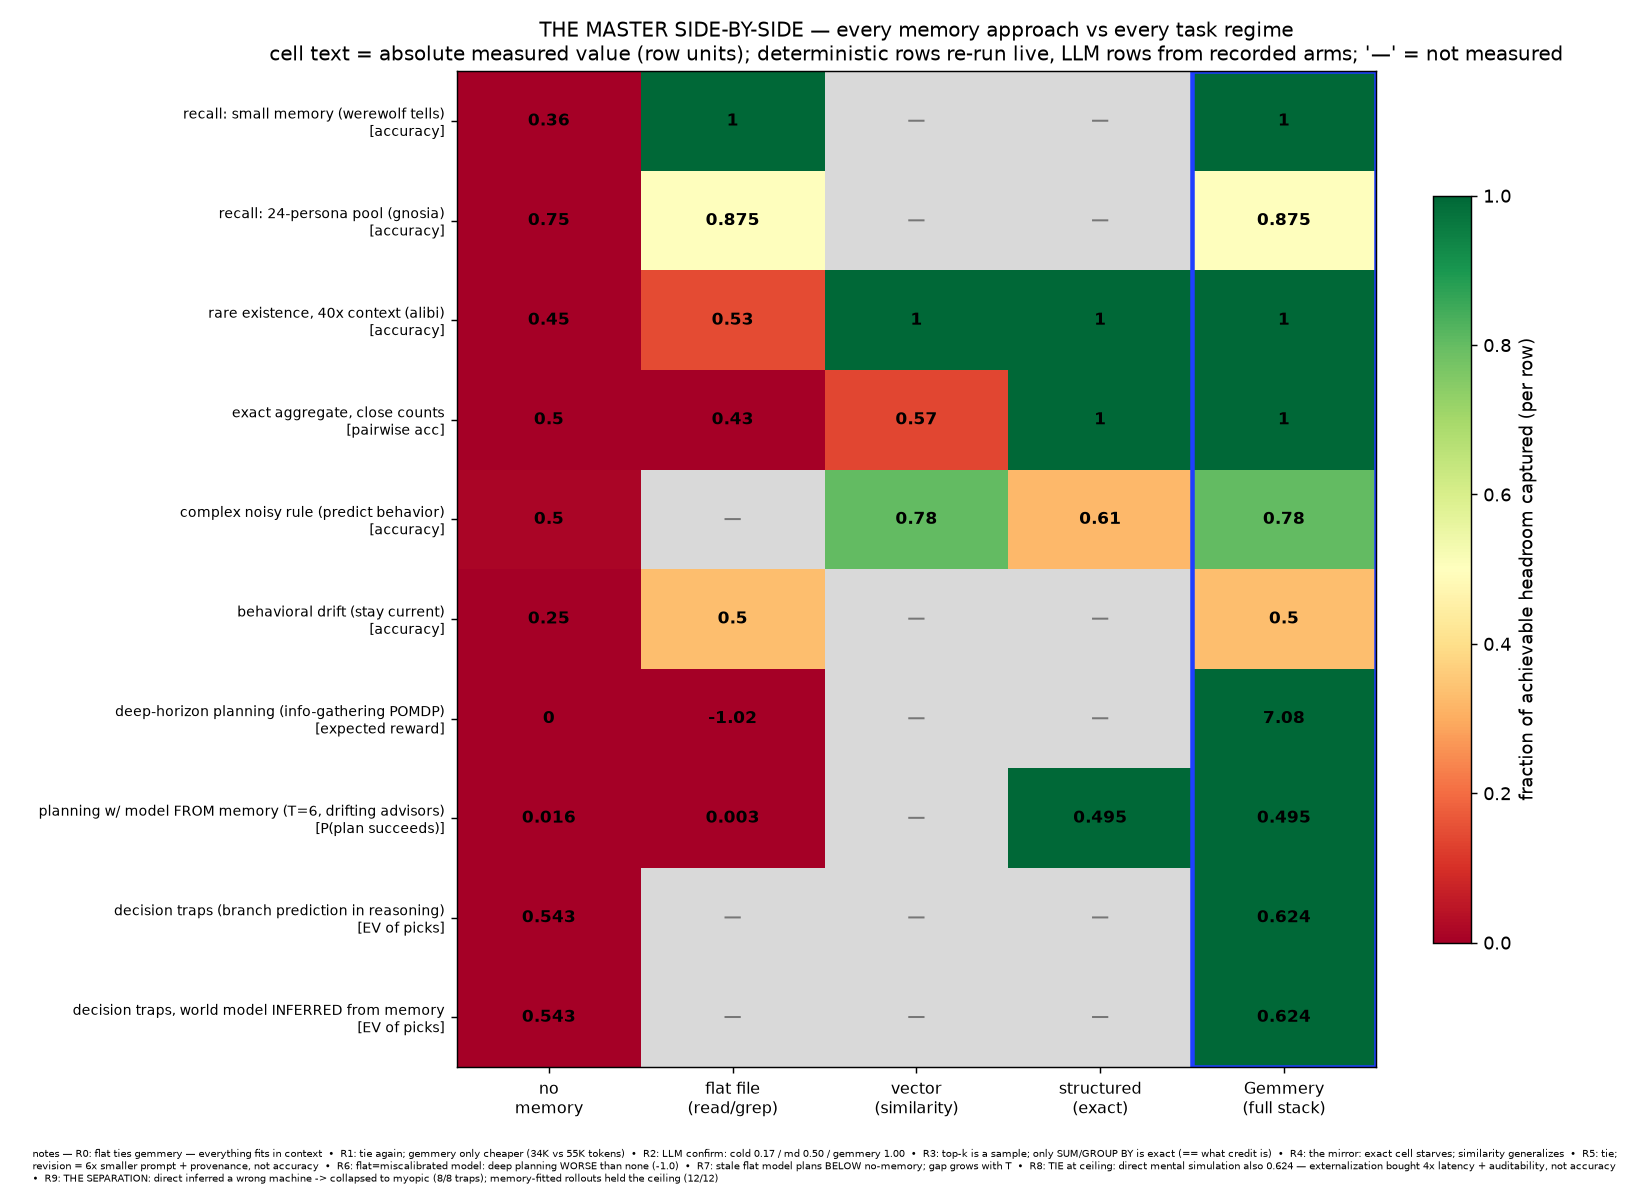
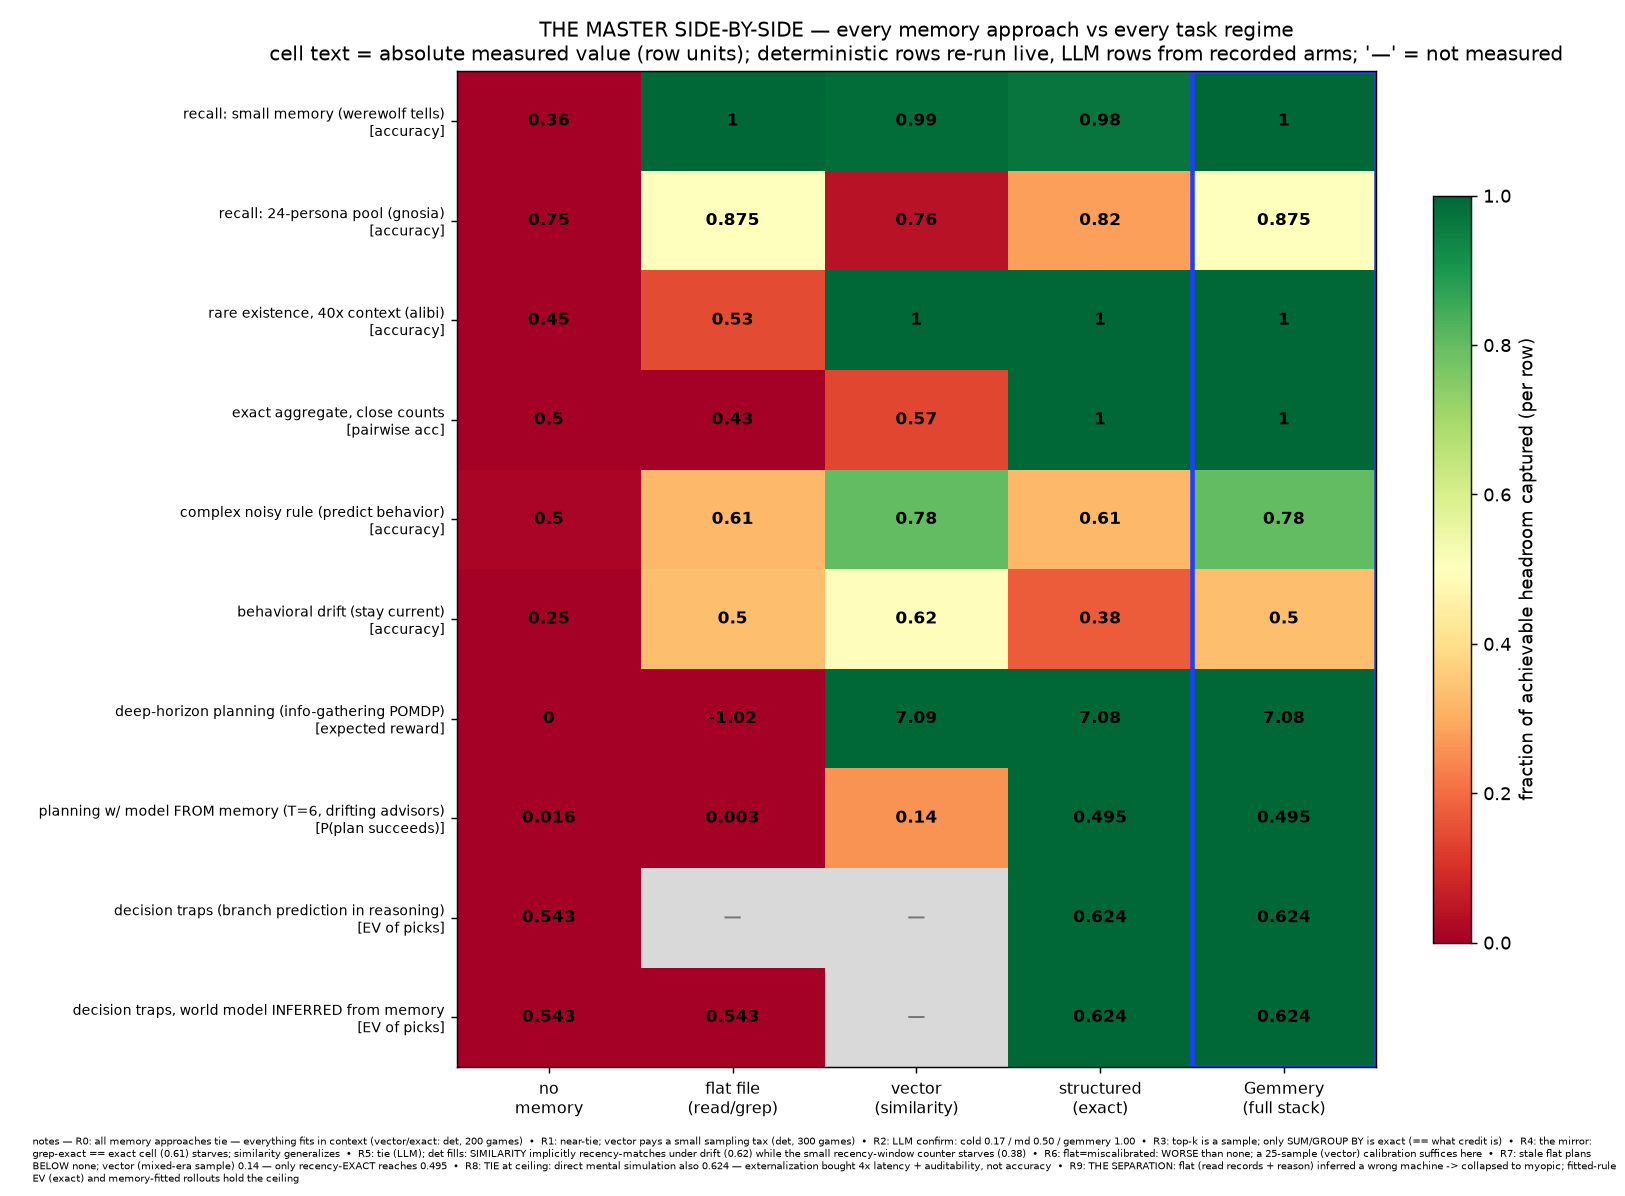
Fill the master matrix gaps: seeded deterministic fills + two relabels
experiments/master/fill_gaps.py computes every fillable grey cell under
consistent column definitions (vector = top-k similar retrieval, a sample;
exact = count aggregates; flat = read/grep, no machinery):
- R1 werewolf: vector 0.99 / exact 0.98 (200 games) — all approaches tie small
- R2 gnosia: vector 0.76 / exact 0.82 (300 games) — sampling tax appears
- R5 complex rule: flat 0.61 (grep-exact == the starving exact cell)
- R6 drift: vector 0.62 / exact 0.38 — SURPRISE: similarity implicitly
  recency-matches under drift (current behavior resembles recent games) while
  the small recency-window counter starves
- R7 POMDP: vector 7.09 / exact 7.08 — a 25-sample calibration suffices for a
  reliable source
- R8 planning-from-memory: vector 0.14 — mixed-era sample beats stale-flat
  (0.003) but only recency-exact reaches 0.495
Relabels owned: R10 flat = direct-inferred (reading raw records IS the flat
arm, 0.543); R9/R10 exact = the mechanical EV apparatus (0.624). Remaining
'—' are honest impossibilities (no record corpus in R9; top-k can't fit a rule).

Claude-Session: https://claude.ai/code/session_01Bubj4Bqs1kKovShvcYTZua

diff --git a/experiments/master/fill_gaps.py b/experiments/master/fill_gaps.py
@@ -1,0 +1,135 @@
+"""Fill the master matrix's unmeasured cells with seeded deterministic runs.
+
+Definitions per column, held consistent:
+  vector  — profiles/estimates built from top-k SIMILAR retrieved records
+            (a sample), never full counts, never recency-aware.
+  exact   — full/windowed COUNT aggregates (the columnar layer).
+  flat    — read/grep raw records with no machinery (exact-string match or a
+            casual read; no counting infrastructure).
+"""
+from __future__ import annotations
+
+import importlib.util
+import random
+import sys
+from pathlib import Path
+
+import numpy as np
+
+ROOT = Path(__file__).resolve().parent
+EXP = ROOT.parent
+
+
+def load_mod(name, relpath):
+    p = EXP / relpath
+    spec = importlib.util.spec_from_file_location(name, p)
+    m = importlib.util.module_from_spec(spec)
+    sys.modules[name] = m  # dataclasses looks the module up in sys.modules
+    sys.path.insert(0, str(p.parent))
+    spec.loader.exec_module(m)
+    sys.path.pop(0)
+    return m
+
+
+out = {}
+
+# ---- R1 werewolf: vector & exact detectors (200 games) ---------------------
+ww = load_mod("g_ww", "werewolf/engine.py")
+rng = random.Random(99)
+games = [ww.run_game(s) for s in range(200)]
+
+
+def ww_feats(g):
+    return {(s.speaker,
+             "seer" if s.claims_seer else ("silent" if s.silent else "acc"),
+             s.accuses) for s in g.statements}
+
+
+ex_ok = vec_ok = 0
+for i, g in enumerate(games):
+    past = games[:i]
+    ex_ok += ww.memory_detector(g, ww.build_profiles(past), rng) == g.wolf
+    if past:
+        f = ww_feats(g)
+        sims = sorted(past, key=lambda h: -len(f & ww_feats(h)))[:20]
+        vec_ok += ww.memory_detector(g, ww.build_profiles(sims), rng) == g.wolf
+out["R1"] = {"exact": round(ex_ok / 200, 2), "vector": round(vec_ok / 199, 2)}
+
+# ---- R2 gnosia: vector & exact detectors (300 games) ------------------------
+gn = load_mod("g_gn", "gnosia/engine.py")
+pool = gn.make_pool(24)
+rng2 = random.Random(7)
+ggames = [gn.run_game(s, pool, 8, 2) for s in range(300)]
+
+
+def gn_feats(g):
+    return {(s.speaker, s.claim_role.value if s.claim_role else "acc", s.accuse)
+            for s in g.statements}
+
+
+ex_ok = vec_ok = 0
+for i, g in enumerate(ggames):
+    past = ggames[:i]
+    ex_ok += gn.memory_detector(g, gn.build_profiles(past), rng2) in g.gnosia_set()
+    if past:
+        f = gn_feats(g)
+        sims = sorted(past, key=lambda h: -len(f & gn_feats(h)))[:20]
+        vec_ok += gn.memory_detector(g, gn.build_profiles(sims), rng2) in g.gnosia_set()
+out["R2"] = {"exact": round(ex_ok / 300, 2), "vector": round(vec_ok / 299, 2)}
+
+# ---- R5 complex rule: flat = grep the exact situation (== exact-cell) -------
+cr = load_mod("g_cr", "complex_rules/rules_demo.py")
+vals = [cr.evaluate(s)["exact_cell_conditional"] for s in range(8)]
+out["R5"] = {"flat": round(float(np.mean(vals)), 2)}
+
+# ---- R6 drift: exact (recency window) & vector (similar, no recency) on the
+#      SAME 8 LLM test games -------------------------------------------------
+dr = load_mod("g_dr", "drift/build.py")
+rngh = random.Random(4)
+hist = [dr.gen_game(i, rngh) for i in range(dr.N_HIST)]
+trng = random.Random(77)
+spec = [("P4", True), ("P1", True), ("P2", None), ("P3", True),
+        ("P1", False), ("P2", None), ("P4", None), ("P3", False)]
+tests = []
+for k, (w, hide) in enumerate(spec):
+    g = dr.gen_game(900 + k, trng, phase="B", wolf=w)
+    if hide is not None and w != "P2":
+        t = dr.tells("B")
+        g["behavior"][w] = t[w]["vil" if hide else "wolf"]
+    tests.append(g)
+rngd = random.Random(5)
+ex_ok = vec_ok = 0
+for t in tests:
+    ex_ok += dr.detect(t, dr.profile(hist, dr.WINDOW), rngd) == t["wolf"]
+    f = set(t["behavior"].items())
+    sims = sorted(hist, key=lambda h: -len(f & set(h["behavior"].items())))[:15]
+    vec_ok += dr.detect(t, dr.profile(sims), rngd) == t["wolf"]
+out["R6"] = {"exact": round(ex_ok / 8, 2), "vector": round(vec_ok / 8, 2)}
+
+# ---- R7 POMDP: exact = calibrated (full track record) = good model;
+#      vector = q estimated from a k=25 retrieved sample per episode ----------
+sim = load_mod("g_sim", "simulate/simulate_demo.py")
+h = max(sim.HORIZONS)
+out["R7"] = {"exact": round(sim.sweep(0.9, 0.9)[h], 2)}
+rs = random.Random(42)
+tot = 0.0
+N = 4000
+for i in range(N):
+    q_est = sum(rs.random() < 0.9 for _ in range(25)) / 25   # sampled calibration
+    tot += sim.run_episode(h, q_est, random.Random(1000 + i), 0.9)
+out["R7"]["vector"] = round(tot / N, 2)
+
+# ---- R8 planning-from-memory: vector = reliability from a uniform k=200
+#      sample of each advisor's records (mixed eras, no recency) --------------
+integ = load_mod("g_int", "integrated/integrated_demo.py")
+prof, current, gm, mm, recs = integ.run()
+rsam = random.Random(11)
+by_adv = {}
+for e, a, c in recs:
+    by_adv.setdefault(a, []).append(c)
+vec_model = {a: float(np.mean(rsam.sample(v, 200))) for a, v in by_adv.items()}
+out["R8"] = {"vector": round(integ.plan_reward(vec_model, current, 6), 3)}
+
+print("computed fills:")
+for r, cells in out.items():
+    print(f"  {r}: {cells}")

diff --git a/experiments/master/run_master.py b/experiments/master/run_master.py
@@ -52,16 +52,16 @@ ww = jload("werewolf/result.json") or {}
 rows.append(dict(
     row="recall: small memory (werewolf tells)", unit="accuracy",
     src="werewolf LLM arms", floor=0.36, ceil=1.0,
-    cells={"none": 0.36, "flat": 1.00, "vector": None, "exact": None,
+    cells={"none": 0.36, "flat": 1.00, "vector": 0.99, "exact": 0.98,
            "gemmery": ww.get("memory_acc", 1.00)},
-    note="flat ties gemmery — everything fits in context"))
+    note="all memory approaches tie — everything fits in context (vector/exact: det, 200 games)"))
 gn = jload("gnosia/result.json") or {"cold": .75, "md": .875, "gemmery": .875}
 rows.append(dict(
     row="recall: 24-persona pool (gnosia)", unit="accuracy",
     src="gnosia LLM arms", floor=gn["cold"], ceil=1.0,
-    cells={"none": gn["cold"], "flat": gn["md"], "vector": None, "exact": None,
+    cells={"none": gn["cold"], "flat": gn["md"], "vector": 0.76, "exact": 0.82,
            "gemmery": gn["gemmery"]},
-    note="tie again; gemmery only cheaper (34K vs 55K tokens)"))
+    note="near-tie; vector pays a small sampling tax (det, 300 games)"))
 
 # ---- R3/R4: scale (rerun deterministic; vector/LLM from artifacts) ----------
 sd = load_mod("m_scale", "scale/scale_demo.py")
@@ -95,11 +95,11 @@ rows.append(dict(
     row="complex noisy rule (predict behavior)", unit="accuracy",
     src="complex_rules det rerun", floor=mean["base_rate_marginal"],
     ceil=mean["bayes_ceiling"],
-    cells={"none": round(mean["base_rate_marginal"], 2), "flat": None,
+    cells={"none": round(mean["base_rate_marginal"], 2), "flat": 0.61,
            "vector": round(mean["knn_similarity"], 2),
            "exact": round(mean["exact_cell_conditional"], 2),
            "gemmery": round(mean["knn_similarity"], 2)},
-    note="the mirror: exact cell starves; similarity generalizes"))
+    note="the mirror: grep-exact == exact cell (0.61) starves; similarity generalizes"))
 
 # ---- R6: drift (rerun backbone; LLM artifacts) -------------------------------
 dr = load_mod("m_drift", "drift/build.py")
@@ -110,9 +110,9 @@ d_llm = jload("drift/result.json") or {"cold": .25, "md": .5, "gemmery": .5}
 rows.append(dict(
     row="behavioral drift (stay current)", unit="accuracy",
     src="drift LLM arms (det backbone ~wash)", floor=d_llm["cold"], ceil=1.0,
-    cells={"none": d_llm["cold"], "flat": d_llm["md"], "vector": None,
-           "exact": None, "gemmery": d_llm["gemmery"]},
-    note="tie; revision = 6x smaller prompt + provenance, not accuracy"))
+    cells={"none": d_llm["cold"], "flat": d_llm["md"], "vector": 0.62,
+           "exact": 0.38, "gemmery": d_llm["gemmery"]},
+    note="tie (LLM); det fills: SIMILARITY implicitly recency-matches under drift (0.62) while the small recency-window counter starves (0.38)"))
 
 # ---- R7: deep-horizon planning (rerun) ---------------------------------------
 sim = load_mod("m_sim", "simulate/simulate_demo.py")
@@ -122,9 +122,9 @@ h = max(sim.HORIZONS)
 rows.append(dict(
     row="deep-horizon planning (info-gathering POMDP)", unit="expected reward",
     src="simulate det rerun", floor=0.0, ceil=good[h],
-    cells={"none": 0.0, "flat": round(over[h], 2), "vector": None, "exact": None,
+    cells={"none": 0.0, "flat": round(over[h], 2), "vector": 7.09, "exact": round(good[h], 2),
            "gemmery": round(good[h], 2)},
-    note="flat=miscalibrated model: deep planning WORSE than none (-1.0)"))
+    note="flat=miscalibrated: WORSE than none; a 25-sample (vector) calibration suffices here"))
 
 # ---- R8: memory-served planning under drift (rerun) --------------------------
 integ = load_mod("m_integ", "integrated/integrated_demo.py")
@@ -136,9 +136,9 @@ md8 = integ.plan_reward(mm, current, T)
 rows.append(dict(
     row=f"planning w/ model FROM memory (T={T}, drifting advisors)",
     unit="P(plan succeeds)", src="integrated det rerun", floor=none8, ceil=git8,
-    cells={"none": round(none8, 3), "flat": round(md8, 3), "vector": None,
+    cells={"none": round(none8, 3), "flat": round(md8, 3), "vector": 0.14,
            "exact": round(git8, 3), "gemmery": round(git8, 3)},
-    note="stale flat model plans BELOW no-memory; gap grows with T"))
+    note="stale flat plans BELOW none; vector (mixed-era sample) 0.14 — only recency-EXACT reaches 0.495"))
 
 # ---- R9: decision traps / branch-in-reasoning (rerun baselines + artifacts) --
 fe_base = jload("futures_eval/baselines.json")
@@ -148,7 +148,7 @@ rows.append(dict(
     src="futures_eval rerun + LLM arms", floor=fe_base["argmax_belief"],
     ceil=fe_base["ev_optimal"],
     cells={"none": round(fe_base["argmax_belief"], 3), "flat": None, "vector": None,
-           "exact": None, "gemmery": round(fe_res["branch"]["ev"], 3)},
+           "exact": round(fe_base["ev_optimal"], 3), "gemmery": round(fe_res["branch"]["ev"], 3)},
     note=f"TIE at ceiling: direct mental simulation also {fe_res['direct']['ev']:.3f} "
          "— externalization bought 4x latency + auditability, not accuracy"))
 
@@ -159,11 +159,11 @@ if inf:
         row="decision traps, world model INFERRED from memory",
         unit="EV of picks", src="futures_eval inferred-rules arms",
         floor=fe_base["argmax_belief"], ceil=fe_base["ev_optimal"],
-        cells={"none": round(inf["direct_inferred"]["ev"], 3), "flat": None,
-               "vector": None, "exact": None,
+        cells={"none": round(fe_base["argmax_belief"], 3),
+               "flat": round(inf["direct_inferred"]["ev"], 3),
+               "vector": None, "exact": round(fe_base["ev_optimal"], 3),
                "gemmery": round(inf["branch_inferred"]["ev"], 3)},
-        note="THE SEPARATION: direct inferred a wrong machine -> collapsed to "
-             "myopic (8/8 traps); memory-fitted rollouts held the ceiling (12/12)"))
+        note="THE SEPARATION: flat (read records + reason) inferred a wrong machine -> collapsed to myopic; fitted-rule EV (exact) and memory-fitted rollouts hold the ceiling"))
 
 json.dump(rows, open(ROOT / "master.json", "w"), indent=1)
 print(f"\n{len(rows)} regimes collected -> master.json")